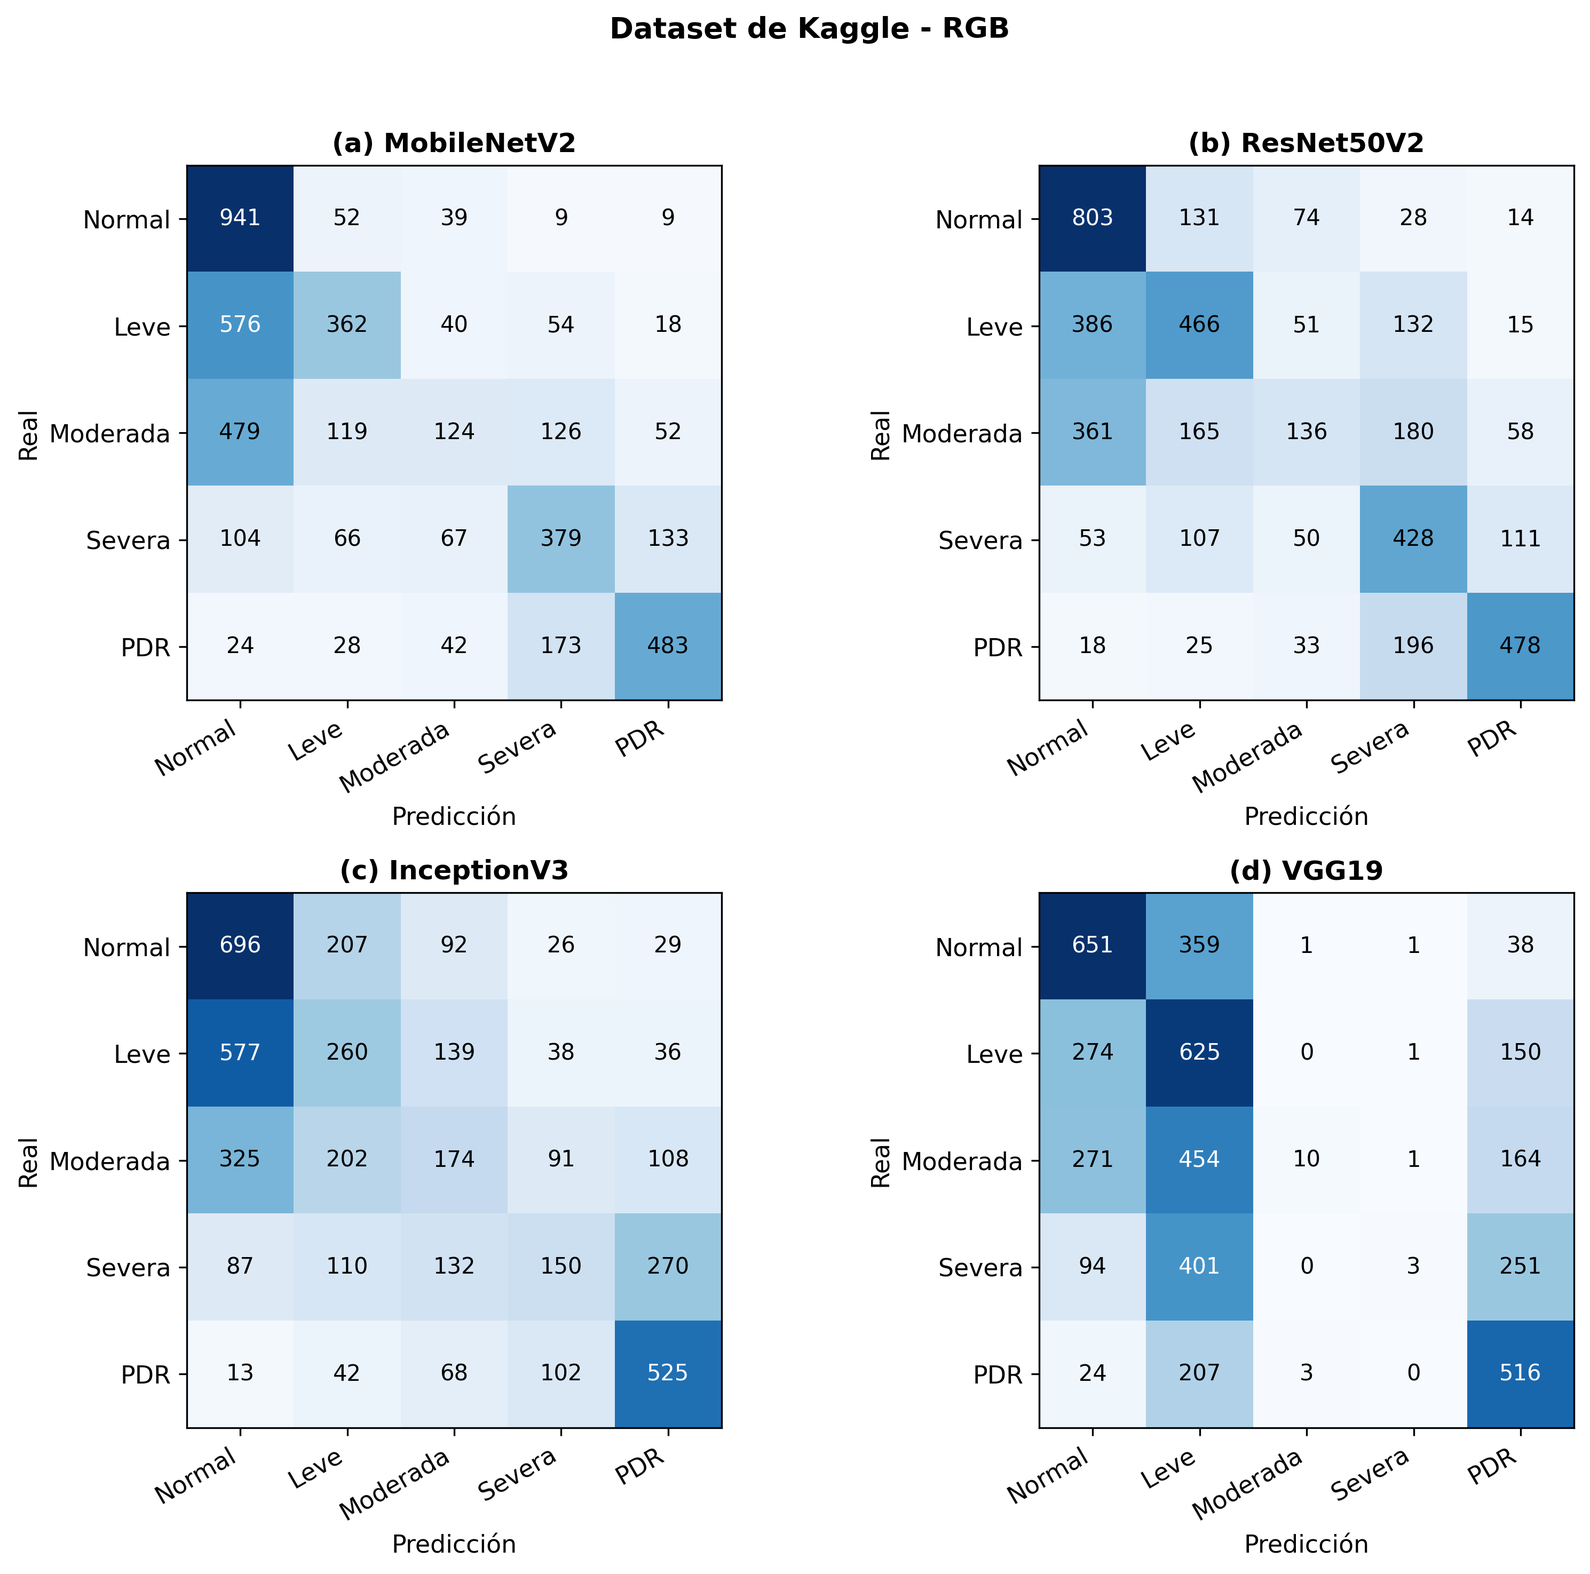
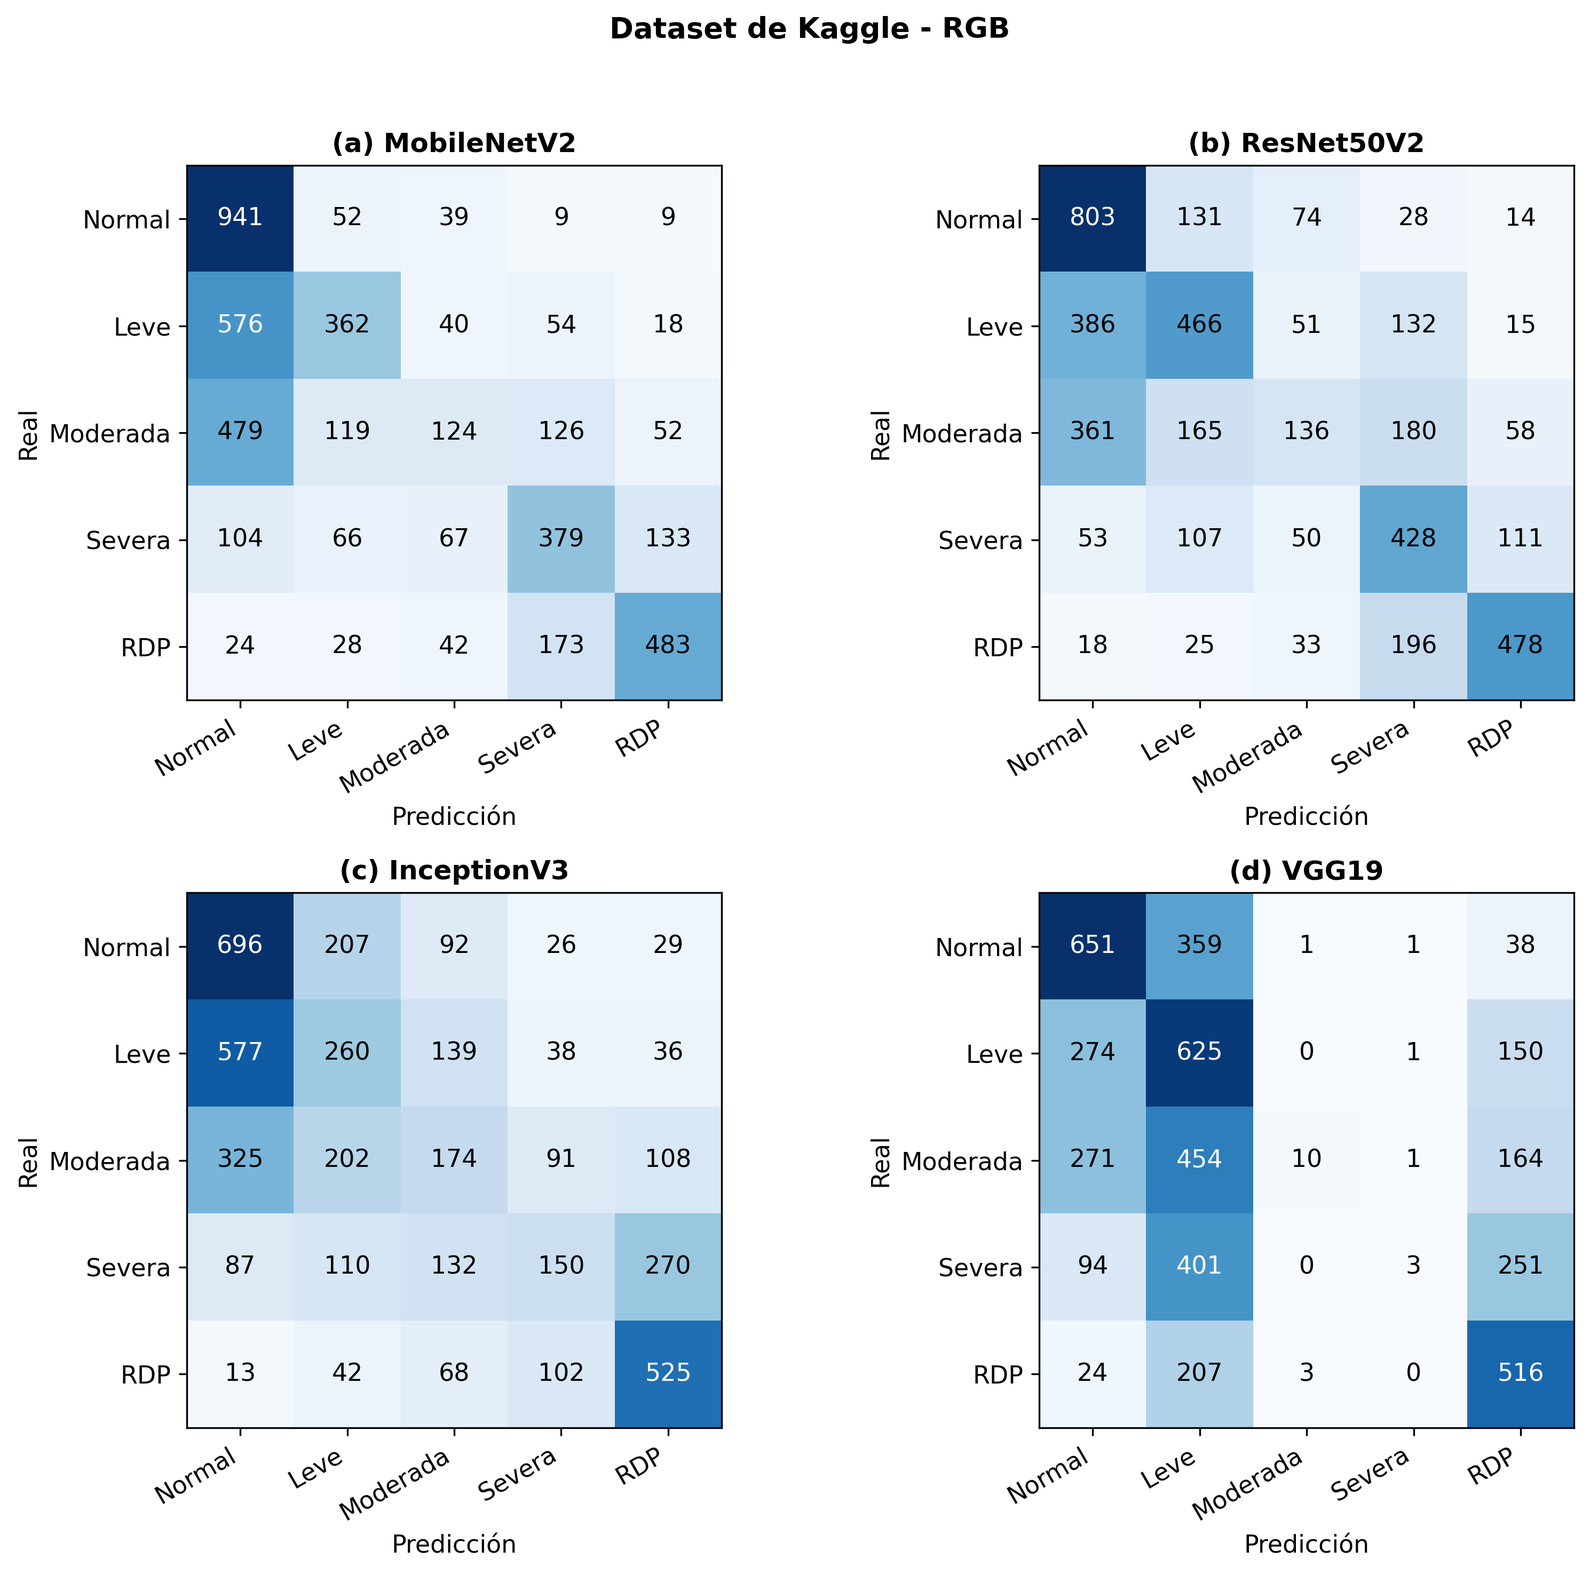
correcciones de forma: siglas, figuras y nomenclatura RDP
- renombra figuras 23-26 a 'Matrices de confusion' (cada una contiene cuatro matrices)
- define cada sigla una sola vez: DM, RD, CNN, RDP, IDE, GAN; AUC-ROC pasa a definirse en la introduccion
- quita la sigla del titulo de la subseccion 5.3.2 (IDE)
- unifica PDR -> RDP en texto y en las matrices multiclase regeneradas
- reemplaza figuras del planteamiento del problema por versiones PNG de mayor calidad

diff --git a/secciones/resultados.tex b/secciones/resultados.tex
@@ -483,7 +483,7 @@ adyacentes.
 
 \begin{figure}[H]
 	\centering
-	\caption{Matriz de confusión para la evaluación de cada clasificador multiclase usando el
+	\caption{Matrices de confusión para la evaluación de cada clasificador multiclase usando el
 	dataset de Kaggle \textbf{RGB}}
 	\label{fig:confusion-multiclase-rgb}
 	\includegraphics[width=\textwidth]{imágenes/resultados/confusion_multiclase_rgb.png}
@@ -491,8 +491,8 @@ adyacentes.
 \end{figure}
 
 La Figura~\ref{fig:confusion-multiclase-verde} repite este ejercicio utilizando
-únicamente el canal verde como entrada; el lector puede comparar directamente esta
-matriz contra la de la Figura~\ref{fig:confusion-multiclase-rgb} para observar el efecto
+únicamente el canal verde como entrada; el lector puede comparar directamente estas
+matrices contra las de la Figura~\ref{fig:confusion-multiclase-rgb} para observar el efecto
 del canal sobre la distribución de aciertos y errores de cada arquitectura.
 
 % TODO (Camilo): se actualizó SOLO la matriz de MobileNetV2 (panel a) en esta figura
@@ -507,7 +507,7 @@ del canal sobre la distribución de aciertos y errores de cada arquitectura.
 % valores.
 \begin{figure}[H]
 	\centering
-	\caption{Matriz de confusión para la evaluación de cada clasificador multiclase usando el
+	\caption{Matrices de confusión para la evaluación de cada clasificador multiclase usando el
 	dataset de Kaggle canal \textbf{VERDE}}
 	\label{fig:confusion-multiclase-verde}
 	\includegraphics[width=\textwidth]{imágenes/resultados/confusion_multiclase_verde.png}
@@ -521,7 +521,7 @@ agregado considerablemente inferior al del canal verde (Sección~
 
 \begin{figure}[H]
 	\centering
-	\caption{Matriz de confusión para la evaluación de cada clasificador multiclase usando el
+	\caption{Matrices de confusión para la evaluación de cada clasificador multiclase usando el
 	dataset de Kaggle canal \textbf{AZUL}}
 	\label{fig:confusion-multiclase-azul}
 	\includegraphics[width=\textwidth]{imágenes/resultados/confusion_multiclase_azul.png}
@@ -534,7 +534,7 @@ configuraciones de entrada evaluadas.
 
 \begin{figure}[H]
 	\centering
-	\caption{Matriz de confusión para la evaluación de cada clasificador multiclase usando el
+	\caption{Matrices de confusión para la evaluación de cada clasificador multiclase usando el
 	dataset de Kaggle canal \textbf{ROJO}}
 	\label{fig:confusion-multiclase-rojo}
 	\includegraphics[width=\textwidth]{imágenes/resultados/confusion_multiclase_rojo.png}
@@ -547,7 +547,7 @@ distinguiendo entre confusiones clínicamente esperables —entre categorías de
 adyacentes, cuyo límite diagnóstico es ambiguo incluso para observadores humanos— y
 errores clínicamente graves, en los que el modelo asigna una categoría alejada varios
 niveles de la gravedad real. Codificando las cinco clases de forma ordinal (Normal=0,
-Leve=1, Moderada=2, Severa=3, PDR=4) y sumando los errores de las cuatro arquitecturas
+Leve=1, Moderada=2, Severa=3, RDP=4) y sumando los errores de las cuatro arquitecturas
 para cada canal, la Tabla~\ref{tab:tipos-error-confusion} resume esta distinción.
 
 \begin{table}[H]
@@ -557,7 +557,7 @@ para cada canal, la Tabla~\ref{tab:tipos-error-confusion} resume esta distinció
 	\label{tab:tipos-error-confusion}
 	\begin{tabularx}{\textwidth}{l Y Y Y Y}
 		\toprule
-		Configuración & Adyacentes & No adyacentes & Referible $\rightarrow$ No referible & Severa/PDR $\rightarrow$ Normal/Leve \\
+		Configuración & Adyacentes & No adyacentes & Referible $\rightarrow$ No referible & Severa/RDP $\rightarrow$ Normal/Leve \\
 		\midrule
 		RGB   & 57.4\% & 42.6\% & 38.6\% & 14.3\% \\
 		Verde & 56.8\% & 43.2\% & 37.0\% & 12.5\% \\
@@ -577,18 +577,18 @@ Moderada-Severa), un patrón esperable dado el carácter progresivo y continuo d
 retinopatía diabética, en el cual los casos en el límite entre dos etapas consecutivas son
 inherentemente más difíciles de separar. El resto de los errores (43\%-50\%) implica saltos
 de dos o más niveles de severidad. Dentro de este grupo, el subconjunto clínicamente más
-relevante es aquel en el que un caso de RD referible (Moderada, Severa o PDR) se clasifica
+relevante es aquel en el que un caso de RD referible (Moderada, Severa o RDP) se clasifica
 como no referible (Normal o Leve), pues equivale a omitir un caso que requeriría derivación
 a oftalmología: este tipo de error representa entre el 37\% (canal verde) y el 41\% (canal
 azul) del total de errores, es decir, aproximadamente 4 de cada 10 errores del modelo.
 
 Un subconjunto aún más crítico dentro de esta categoría es aquel en el que casos Severos o
-de PDR —las etapas con mayor riesgo de pérdida visual— se clasifican directamente como
+de RDP —las etapas con mayor riesgo de pérdida visual— se clasifican directamente como
 Normal o Leve. Este tipo de error representa el 12.5\% de los errores totales con el canal
 verde, frente a 14.3\% con RGB, 16.0\% con el canal rojo y 18.6\% con el canal azul, lo cual
 es consistente con la mayor sensibilidad del canal verde para la clase Severa cuantificada
 más adelante en esta misma sección. En el extremo opuesto, las falsas alarmas
-(casos Normales clasificados como Severa o PDR) son poco frecuentes en las cuatro
+(casos Normales clasificados como Severa o RDP) son poco frecuentes en las cuatro
 configuraciones (entre 0.5\% y 1.7\% de los errores), lo cual indica que el sesgo de los
 errores del modelo tiende hacia la subestimación de la severidad más que hacia la
 sobreestimación.
@@ -596,7 +596,7 @@ sobreestimación.
 Cabe destacar que gran parte de la proporción de errores no adyacentes se explica por el
 comportamiento de VGG19: como se observó en las matrices de confusión (Figura~
 \ref{fig:confusion-multiclase-azul}, panel d, y Figura~\ref{fig:confusion-multiclase-rojo},
-panel d), esta arquitectura colapsa hacia las clases Normal, Leve y PDR con los canales
+panel d), esta arquitectura colapsa hacia las clases Normal, Leve y RDP con los canales
 rojo y azul, sin predecir nunca Moderada ni Severa, lo que concentra artificialmente sus
 errores en saltos de severidad amplios y no necesariamente refleja un patrón generalizable
 a las demás arquitecturas.
@@ -708,7 +708,7 @@ hipótesis de que la ventaja del canal verde no es un artefacto estadístico, si
 responde a una mejor representación de las lesiones que definen clínicamente la severidad
 de la enfermedad.
 
-Cabe señalar que esta ventaja no se extiende de forma uniforme a la clase PDR (RD4): en
+Cabe señalar que esta ventaja no se extiende de forma uniforme a la clase RDP (RD4): en
 ambas arquitecturas el canal rojo iguala o supera al verde en la sensibilidad de esta
 categoría (0.73 frente a 0.67 en MobileNetV2 y 0.74 frente a 0.61 en ResNet50V2), lo cual
 sugiere

diff --git a/secciones/metodologia.tex b/secciones/metodologia.tex
@@ -24,7 +24,7 @@ diabética mediante aprendizaje profundo}
 
 \section{CONJUNTOS DE DATOS} \label{sec:conjuntos-datos}
 
-Una etapa clave en la construcción de una red neuronal convolucional (CNN) es la 
+Una etapa clave en la construcción de una CNN es la 
 recopilación de datos, ya que el rendimiento del modelo depende en gran medida tanto de 
 la calidad como de la diversidad del conjunto utilizado. Para que el entrenamiento sea 
 efectivo, las imágenes deben reflejar con precisión las distintas condiciones del 
@@ -91,7 +91,7 @@ capturadas con cámaras no midriáticas Topcon TRC NW6, NW7 y Nidek AFC-210, con
 un campo de visión de 45°. Las imágenes presentan resoluciones variables, típicamente
 entre $1440 \times 960$ y $2304 \times 1536$ píxeles, y están centradas en la mácula.
 
-Este conjunto cuenta con: etiquetas de gradación de retinopatía diabética (RD) en una 
+Este conjunto cuenta con: etiquetas de gradación de RD en una 
 escala de 0 a 3; etiquetas de edema macular, validadas por especialistas; y metadatos 
 como el diámetro pupilar y la calidad técnica de cada imagen. Gracias a su calidad, 
 volumen y amplia adopción en la comunidad científica, MESSIDOR-2 es ampliamente empleado 
@@ -119,7 +119,7 @@ de clasificación como de segmentación.
 El dataset FOSCAL está compuesto por 1,538 imágenes de fondo de ojo, obtenidas gracias al 
 Centro de Prevención y Consultoría en Glaucoma de Bucaramanga (Fundación Oftalmológica de 
 Santander - FOSCAL). Las imágenes estaban acompañadas de un archivo plano que detalla las 
-anomalías presentes, incluyendo el nivel de retinopatía diabética (RD), lo que permitió 
+anomalías presentes, incluyendo el nivel de RD, lo que permitió 
 organizarlas con sus respectivas etiquetas.
 
 El proceso de etiquetado fue realizado por especialistas médicos mediante una plataforma 
@@ -431,7 +431,7 @@ compatibilidad con aceleradores de hardware, como GPUs y TPUs, permite el entren
 eficiente de modelos a gran escala, reduciendo significativamente el tiempo de cómputo 
 requerido.
 
-\subsection{Entorno de desarrollo integrado (IDE)}
+\subsection{Entorno de desarrollo integrado}
 
 Se evaluaron distintos entornos de desarrollo integrados (IDE), donde cada uno ofrece 
 ventajas y características específicas que pueden influir en la ejecución de los modelos. 
@@ -507,8 +507,8 @@ utilizado durante el entrenamiento, discutido más adelante en este capítulo.
 \section{CONFIGURACIÓN EXPERIMENTAL Y ENTRENAMIENTO} \label{sec:config-experimental}
 
 El proceso de entrenamiento se estructuró en dos fases consecutivas. La primera fase se 
-centró en el desarrollo de un modelo para la detección binaria de retinopatía diabética 
-(RD), discriminando entre casos positivos (presencia de la enfermedad) y negativos 
+centró en el desarrollo de un modelo para la detección binaria de RD,
+discriminando entre casos positivos (presencia de la enfermedad) y negativos 
 (ausencia de la enfermedad). Una vez validado este modelo, se procedió a una segunda fase 
 de adaptación para clasificación multiclase, orientada a la categorización de la RD en 
 los cinco niveles de gravedad definidos por los estándares clínicos (0: sin RD, 1: leve, 
@@ -740,7 +740,7 @@ $2 \cdot \frac{P \cdot S}{P + S}$ \\ \hline
 \caption*{\textit{Fuente: Elaboración propia}}
 \end{table}
 
-Adicionalmente, se calculó el área bajo la curva ROC (AUC-ROC), que proporciona una
+Adicionalmente, se calculó el AUC-ROC, que proporciona una
 medida robusta del desempeño del clasificador independiente del umbral de decisión. Un
 valor de AUC cercano a 1.0 indica un excelente desempeño discriminatorio.
 

diff --git a/secciones/trabajos_previos.tex b/secciones/trabajos_previos.tex
@@ -3,7 +3,7 @@
 En los últimos años, las técnicas de aprendizaje profundo han demostrado un rendimiento
 excepcional en numerosas tareas que van desde el reconocimiento de objetos hasta el
 procesamiento del lenguaje natural. El uso de técnicas de aprendizaje profundo,
-específicamente redes neuronales convolucionales (CNN), ha demostrado resultados
+específicamente las CNN, ha demostrado resultados
 prometedores en la detección automática de RD a través del análisis de imágenes del fondo
 de ojo. Dentro de este contexto, se incluyen varios enfoques que han contribuido en este
 campo de investigación.
@@ -11,8 +11,8 @@ campo de investigación.
 \section{ENFOQUES CON CNN PERSONALIZADAS Y MODIFICACIONES ARQUITECTÓNICAS}
 
 En algunas investigaciones se observa un enfoque común: la personalización de un modelo
-de red neuronal convolucional (CNN) para abordar la detección automatizada de retinopatía
-diabética (RD), ya sea modificando la arquitectura o los parámetros de un modelo CNN
+de CNN para abordar la detección automatizada de RD,
+ya sea modificando la arquitectura o los parámetros de un modelo CNN
 tradicional, introduciendo mecanismos estructurales novedosos, o adoptando estrategias de
 entrenamiento especializadas para mejorar su desempeño en esta tarea específica.
 
@@ -67,13 +67,13 @@ efectividad de distintos modelos preentrenados para la clasificación de la RD
 utilizados desde 2011 hasta 2022.
 
 Últimamente se han desarrollado otras aproximaciones que aprovechan arquitecturas
-preentrenadas en el ámbito de la detección y clasificación de retinopatía diabética (RD)
+preentrenadas en el ámbito de la detección y clasificación de RD
 en imágenes del fondo de ojo. Estos enfoques abarcan una variedad de modelos de
 aprendizaje profundo, tales como VGG16, InceptionResNetv2, Inceptionv3, DenseNet121,
 MobileNetV2, Xception y YOLOv3, los cuales se han utilizado para extraer características
 y llevar a cabo tareas de clasificación y detección.
 
-Por ejemplo, un estudio implementó una red neuronal convolucional (CNN) utilizando VGG16
+Por ejemplo, un estudio implementó una CNN utilizando VGG16
 para la extracción de características de imágenes de retina y la técnica de sobremuestreo
 de minoría sintética (SMOTE) para manejar el desequilibrio de clases en el conjunto de
 datos \myfootcite{mustafa2024rapid}, logrando una precisión del 93.94\% durante la fase

diff --git a/secciones/planteamiento_problema.tex b/secciones/planteamiento_problema.tex
@@ -37,7 +37,7 @@ quinta posición con 397,84.
     \captionsetup{justification=justified, singlelinecheck=false}
     \caption{Distribución de la retinopatía diabética en pacientes con diabetes en los
     departamentos de Colombia.}
-    \includegraphics[width=1\textwidth]{imágenes/introducción/prevalencia-dpto.jpg}
+    \includegraphics[width=1\textwidth]{imágenes/introducción/prevalencia-dpto.png}
     \captionsetup{justification=justified, singlelinecheck=false}
     \caption*{\textit{Fuente: Ministerio de Salud y Protección Social de Colombia (2016).
     ANÁLISIS DE SITUACIÓN DE SALUD VISUAL EN COLOMBIA, p. 84.}}
@@ -55,7 +55,7 @@ quinta posición con 397,84.
     \centering
     \captionsetup{justification=justified, singlelinecheck=false}
     \caption{Prevalencia de retinopatía diabética por sexos en Colombia}
-    \includegraphics[width=1\textwidth]{imágenes/introducción/prevalencia-sexo.jpg}
+    \includegraphics[width=1\textwidth]{imágenes/introducción/prevalencia-sexo.png}
     \captionsetup{justification=justified, singlelinecheck=false}
     \caption*{\textit{Fuente: Ministerio de Salud y Protección Social de Colombia (2016).
     ANÁLISIS DE SITUACIÓN DE SALUD VISUAL EN COLOMBIA, p. 81. }}
@@ -84,7 +84,7 @@ Amazonas, Guainía, Guaviare, Vaupés y Vichada donde no hay reporte de oftalmó
     \centering
     \captionsetup{justification=justified, singlelinecheck=false}
     \caption{Prevalencia de retinopatía diabética por grupos de edad en Colombia}
-    \includegraphics[width=1\textwidth]{imágenes/introducción/prevalencia-edad.jpg}
+    \includegraphics[width=1\textwidth]{imágenes/introducción/prevalencia-edad.png}
     \captionsetup{justification=justified, singlelinecheck=false}
     \caption*{\textit{Fuente: Ministerio de Salud y Protección Social de Colombia (2016).
     ANÁLISIS DE SITUACIÓN DE SALUD VISUAL EN COLOMBIA, p. 82. }}

diff --git a/secciones/introducción.tex b/secciones/introducción.tex
@@ -6,12 +6,12 @@ La diabetes mellitus (DM) es una enfermedad metabólica crónica que se caracter
 niveles elevados de glucosa en la sangre. Esto ocurre cuando el cuerpo no produce
 suficiente insulina, una hormona producida por el páncreas que regula la cantidad de
 glucosa en la sangre, o cuando las células no responden adecuadamente a la insulina.
-Alrededor de 463 millones de adultos entre 20 y 79 años tienen diabetes mellitus (DM) en
+Alrededor de 463 millones de adultos entre 20 y 79 años tienen DM en
 la actualidad, lo que representa el 9.3\% de la población mundial en este grupo de edad
 \myfootcite{antonetti2021current}.
 
 La retinopatía diabética (RD) es una complicación
-microvascular específica de la diabetes mellitus (DM) que afecta a 1 de cada 3 personas
+microvascular específica de la DM que afecta a 1 de cada 3 personas
 con esta enfermedad, dañando los vasos sanguíneos de la retina y convirtiéndose en una de
 las principales causas de pérdida de visión en la población adulta activa. Los pacientes
 con niveles graves de RD experimentan una calidad de vida significativamente reducida y
@@ -52,7 +52,7 @@ específico de clasificación de imágenes de retinopatía diabética. La combin
 estrategias no solo mejoró el rendimiento del modelo, sino que también contribuyó a
 desarrollar un sistema robusto y adaptable a diferentes tipos de datos, mejorando su
 aplicabilidad en diversas poblaciones. Este trabajo logró una sensibilidad de 96.5\%
-en clasificación binaria (con intervalos de confianza bootstrap del 95\%: AUC-ROC 0.9636–0.9936)
+en clasificación binaria (con un intervalo de confianza bootstrap del 95\% para el área bajo la curva ROC, AUC-ROC, de 0.9636–0.9936)
 y 65\% de sensibilidad en clasificación multiclase, demostrando la viabilidad de estas
 tecnologías para tamizaje automatizado.
 

diff --git a/secciones/discusion.tex b/secciones/discusion.tex
@@ -121,7 +121,7 @@ exudados \myfootcite{pao2020bichannel}. Los microaneurismas, hemorragias y anoma
 microvasculares intrarretinianas, signos que definen clínicamente la etapa severa de la
 retinopatía diabética, presentan mayor visibilidad en este espectro cromático, lo que es
 consistente con la ganancia de sensibilidad observada precisamente en esa clase. La ventaja no
-es, sin embargo, absoluta: en la clase PDR (RD4), asociada a la neoformación vascular, el
+es, sin embargo, absoluta: en la clase RDP (RD4), asociada a la neoformación vascular, el
 canal rojo iguala o supera al verde, lo que sugiere que ningún canal individual captura
 por sí solo toda la información relevante en las etapas más avanzadas de la enfermedad.
 

diff --git a/secciones/trabajo_futuro.tex b/secciones/trabajo_futuro.tex
@@ -18,7 +18,7 @@ adicionales que representen mayor variabilidad demográfica, étnica y de equipa
 Esta estrategia fortalecería la robustez del modelo ante la heterogeneidad inherente a
 escenarios de implementación real.
 
-La generación de muestras sintéticas mediante redes generativas adversariales (GANs)
+La generación de muestras sintéticas mediante GAN
 específicas para imágenes de fondo de ojo representa una oportunidad para abordar el
 desbalance de clases de manera más efectiva. Se plantea explorar arquitecturas para
 sintetizar imágenes con lesiones características de las clases minoritarias, preservando
